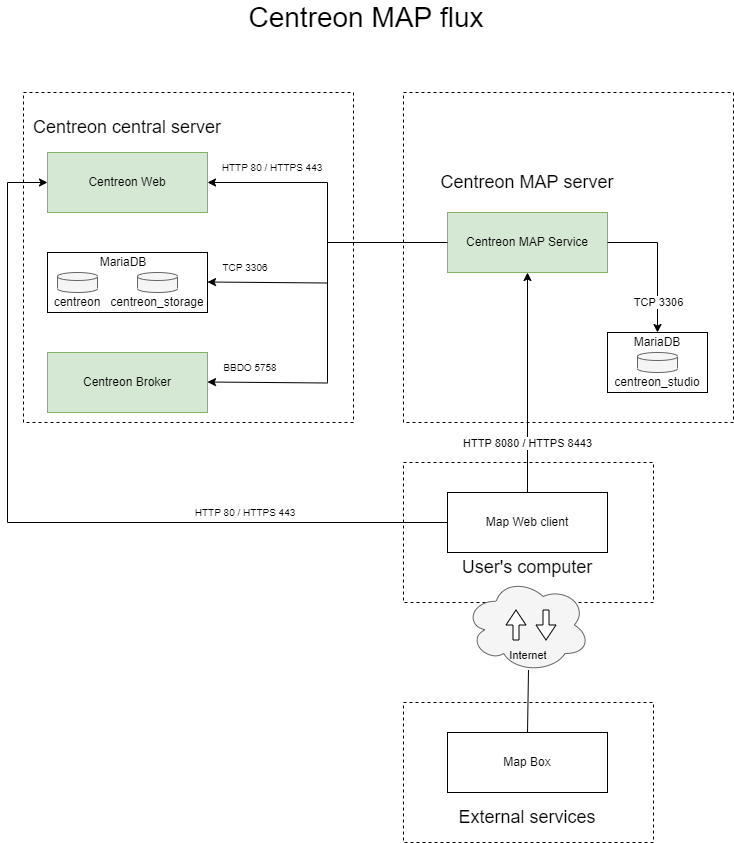
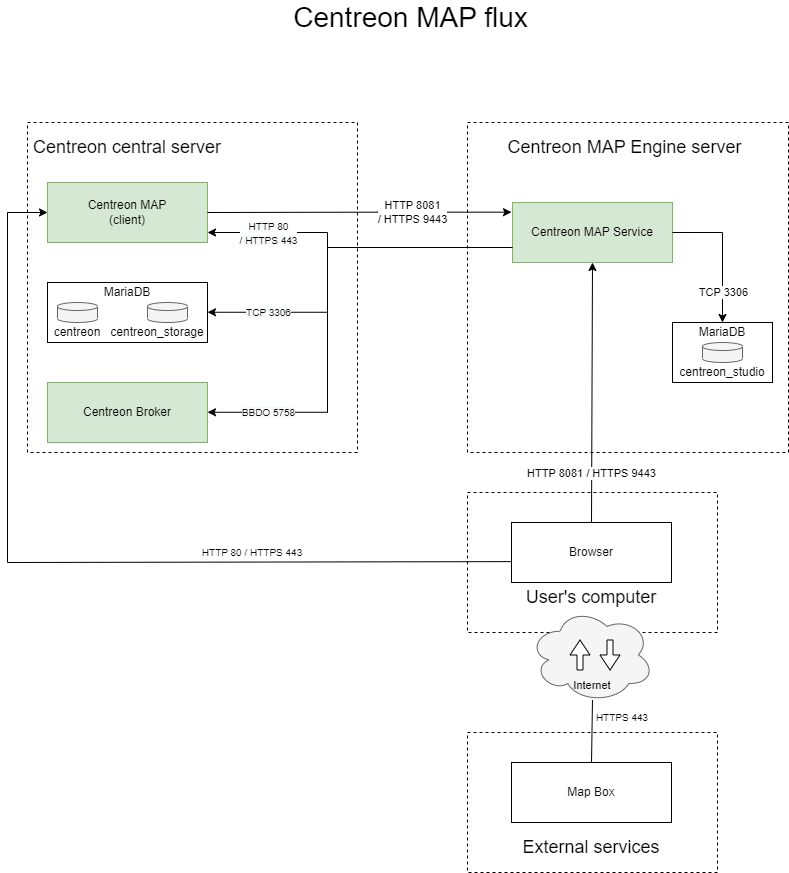
update diagrams for map architecture

diff --git a/versioned_docs/version-22.04/graph-views/map-web-install.md b/versioned_docs/version-22.04/graph-views/map-web-install.md
@@ -10,7 +10,7 @@ This chapter describes how to install Centreon MAP. It is recommended to install
 ### License
 
 If you need an additional license for Centreon MAP, please contact the support [Centreon support
-team](https://centreon.force.com/) to get and install your license key.
+team](https://support.centreon.com/) to get and install your license key.
 
 ## Architecture
 
@@ -133,10 +133,25 @@ you need to install the `centreon-release` package:
 <Tabs groupId="sync">
 <TabItem value="Alma / RHEL / Oracle Linux 8" label="Alma / RHEL / Oracle Linux 8">
 
-> You need to install an EPEL repository before you start the procedure.
+First you need to install an EPEL repository:
 
 ```shell
-dnf install -y https://yum.centreon.com/standard/22.04/el8/stable/noarch/RPMS/centreon-release-22.04-3.el8.noarch.rpm
+dnf install -y https://dl.fedoraproject.org/pub/epel/epel-release-latest-8.noarch.rpm
+```
+
+The command should return results as follows:
+
+```shell
+Installed:
+  epel-release-8-17.el8.noarch
+
+Complete!
+```
+
+Then install the `centreon-release` package:
+
+```shell
+dnf install -y https://yum.centreon.com/standard/22.04/el8/stable/noarch/RPMS/centreon-release-22.04-1.el8.noarch.rpm
 ```
 
 </TabItem>
@@ -145,11 +160,11 @@ dnf install -y https://yum.centreon.com/standard/22.04/el8/stable/noarch/RPMS/ce
 > Ensure a version of Java 17 or later is installed before you start the procedure.
 
 ```shell
-yum install -y https://yum.centreon.com/standard/22.04/el7/stable/noarch/RPMS/centreon-release-22.04-3.el7.centos.noarch.rpm
+yum install -y https://yum.centreon.com/standard/22.04/el7/stable/noarch/RPMS/centreon-release-22.04-1.el7.centos.noarch.rpm
 ```
 
 </TabItem>
-<TabItem value="Debian 11 in progress" label="Debian 11 in progress">
+<TabItem value="Debian 11" label="Debian 11">
 
 Install the following dependencies:
 

diff --git a/versioned_docs/version-21.10/graph-views/map-web-install.md b/versioned_docs/version-21.10/graph-views/map-web-install.md
@@ -1,30 +1,22 @@
 ---
 id: map-web-install
-title: Installing MAP Web
+title: Installing MAP
 ---
 import Tabs from '@theme/Tabs';
 import TabItem from '@theme/TabItem';
 
-This chapter describes how to install Centreon MAP Web. It is recommended to install MAP Web on the central server. However, if you have large volumes of data, you can install it on your legacy MAP server. The MAP Web module does not use the **centreon_studio** database.
+This chapter describes how to install Centreon MAP. It is recommended to install MAP on the central server. However, if you have large volumes of data, you can install it on your legacy MAP server. The MAP Web module does not use the **centreon_studio** database.
 
 ### License
 
 If you need an additional license for Centreon MAP, please contact the support [Centreon support
-team](https://centreon.force.com/) to get and install your license key.
+team](https://support.centreon.com/) to get and install your license key.
 
 ## Architecture
 
-Centreon MAP consists of three components:
+The diagram below summarizes the architecture:
 
-- Centreon MAP Server, developed in Java, using SpringBoot, Hibernate and CXF
-- Centreon MAP Web interface, developed in Javascript, based on
-  [Backbone.js](http://backbonejs.org/)
-- Centreon MAP Desktop Client, developed in Java, based on [Eclipse RCP
-  4](https://wiki.eclipse.org/Eclipse4/RCP).
-
-The diagram below summarizes the architecture: **To update**
-
-![image](../assets/graph-views/map_architect.png)
+![image](../assets/graph-views/ng/map-web-schema.png)
 
 ## Installation
 

diff --git a/versioned_docs/version-22.04/graph-views/install.md b/versioned_docs/version-22.04/graph-views/install.md
@@ -224,21 +224,40 @@ in order to create new Centreon Broker output. It will be revoked later.
 
 ### Centreon MAP (Legacy) server
 
-If you installed your Centreon MAP (Legacy) server from a "fresh CentOS installation"
+If you installed your Centreon MAP server from a "fresh CentOS installation"
 you need to install the `centreon-release` package:
 
 <Tabs groupId="sync">
 <TabItem value="Alma / RHEL / Oracle Linux 8" label="Alma / RHEL / Oracle Linux 8">
 
+First you need to install an EPEL repository:
+
 ```shell
-dnf install -y https://yum.centreon.com/standard/22.04/el8/stable/noarch/RPMS/centreon-release-22.04-3.el8.noarch.rpm
+dnf install -y https://dl.fedoraproject.org/pub/epel/epel-release-latest-8.noarch.rpm
+```
+
+The command should return results as follows:
+
+```shell
+Installed:
+  epel-release-8-17.el8.noarch
+
+Complete!
+```
+
+Then install the `centreon-release` package:
+
+```shell
+dnf install -y https://yum.centreon.com/standard/22.04/el8/stable/noarch/RPMS/centreon-release-22.04-1.el8.noarch.rpm
 ```
 
 </TabItem>
 <TabItem value="CentOS 7" label="CentOS 7">
 
+> Ensure a version of Java 17 or later is installed before you start the procedure.
+
 ```shell
-yum install -y https://yum.centreon.com/standard/22.04/el7/stable/noarch/RPMS/centreon-release-22.04-3.el7.centos.noarch.rpm
+yum install -y https://yum.centreon.com/standard/22.04/el7/stable/noarch/RPMS/centreon-release-22.04-1.el7.centos.noarch.rpm
 ```
 
 </TabItem>

diff --git a/versioned_docs/version-21.10/graph-views/map-web-install-remote.md b/versioned_docs/version-21.10/graph-views/map-web-install-remote.md
@@ -3,6 +3,12 @@ id: map-web-install-remote
 title: Installing MAP Web on a remote server
 ---
 
+## Architecture
+
+The diagram below summarizes the MAP on a remote server architecture:
+
+![image](../assets/graph-views/ng/map-web-remote-server-schema.png)
+
 ## Installation of Centreon MAP Web for a Centreon remote server
 
 Installation of Centreon MAP extension on a Centreon
